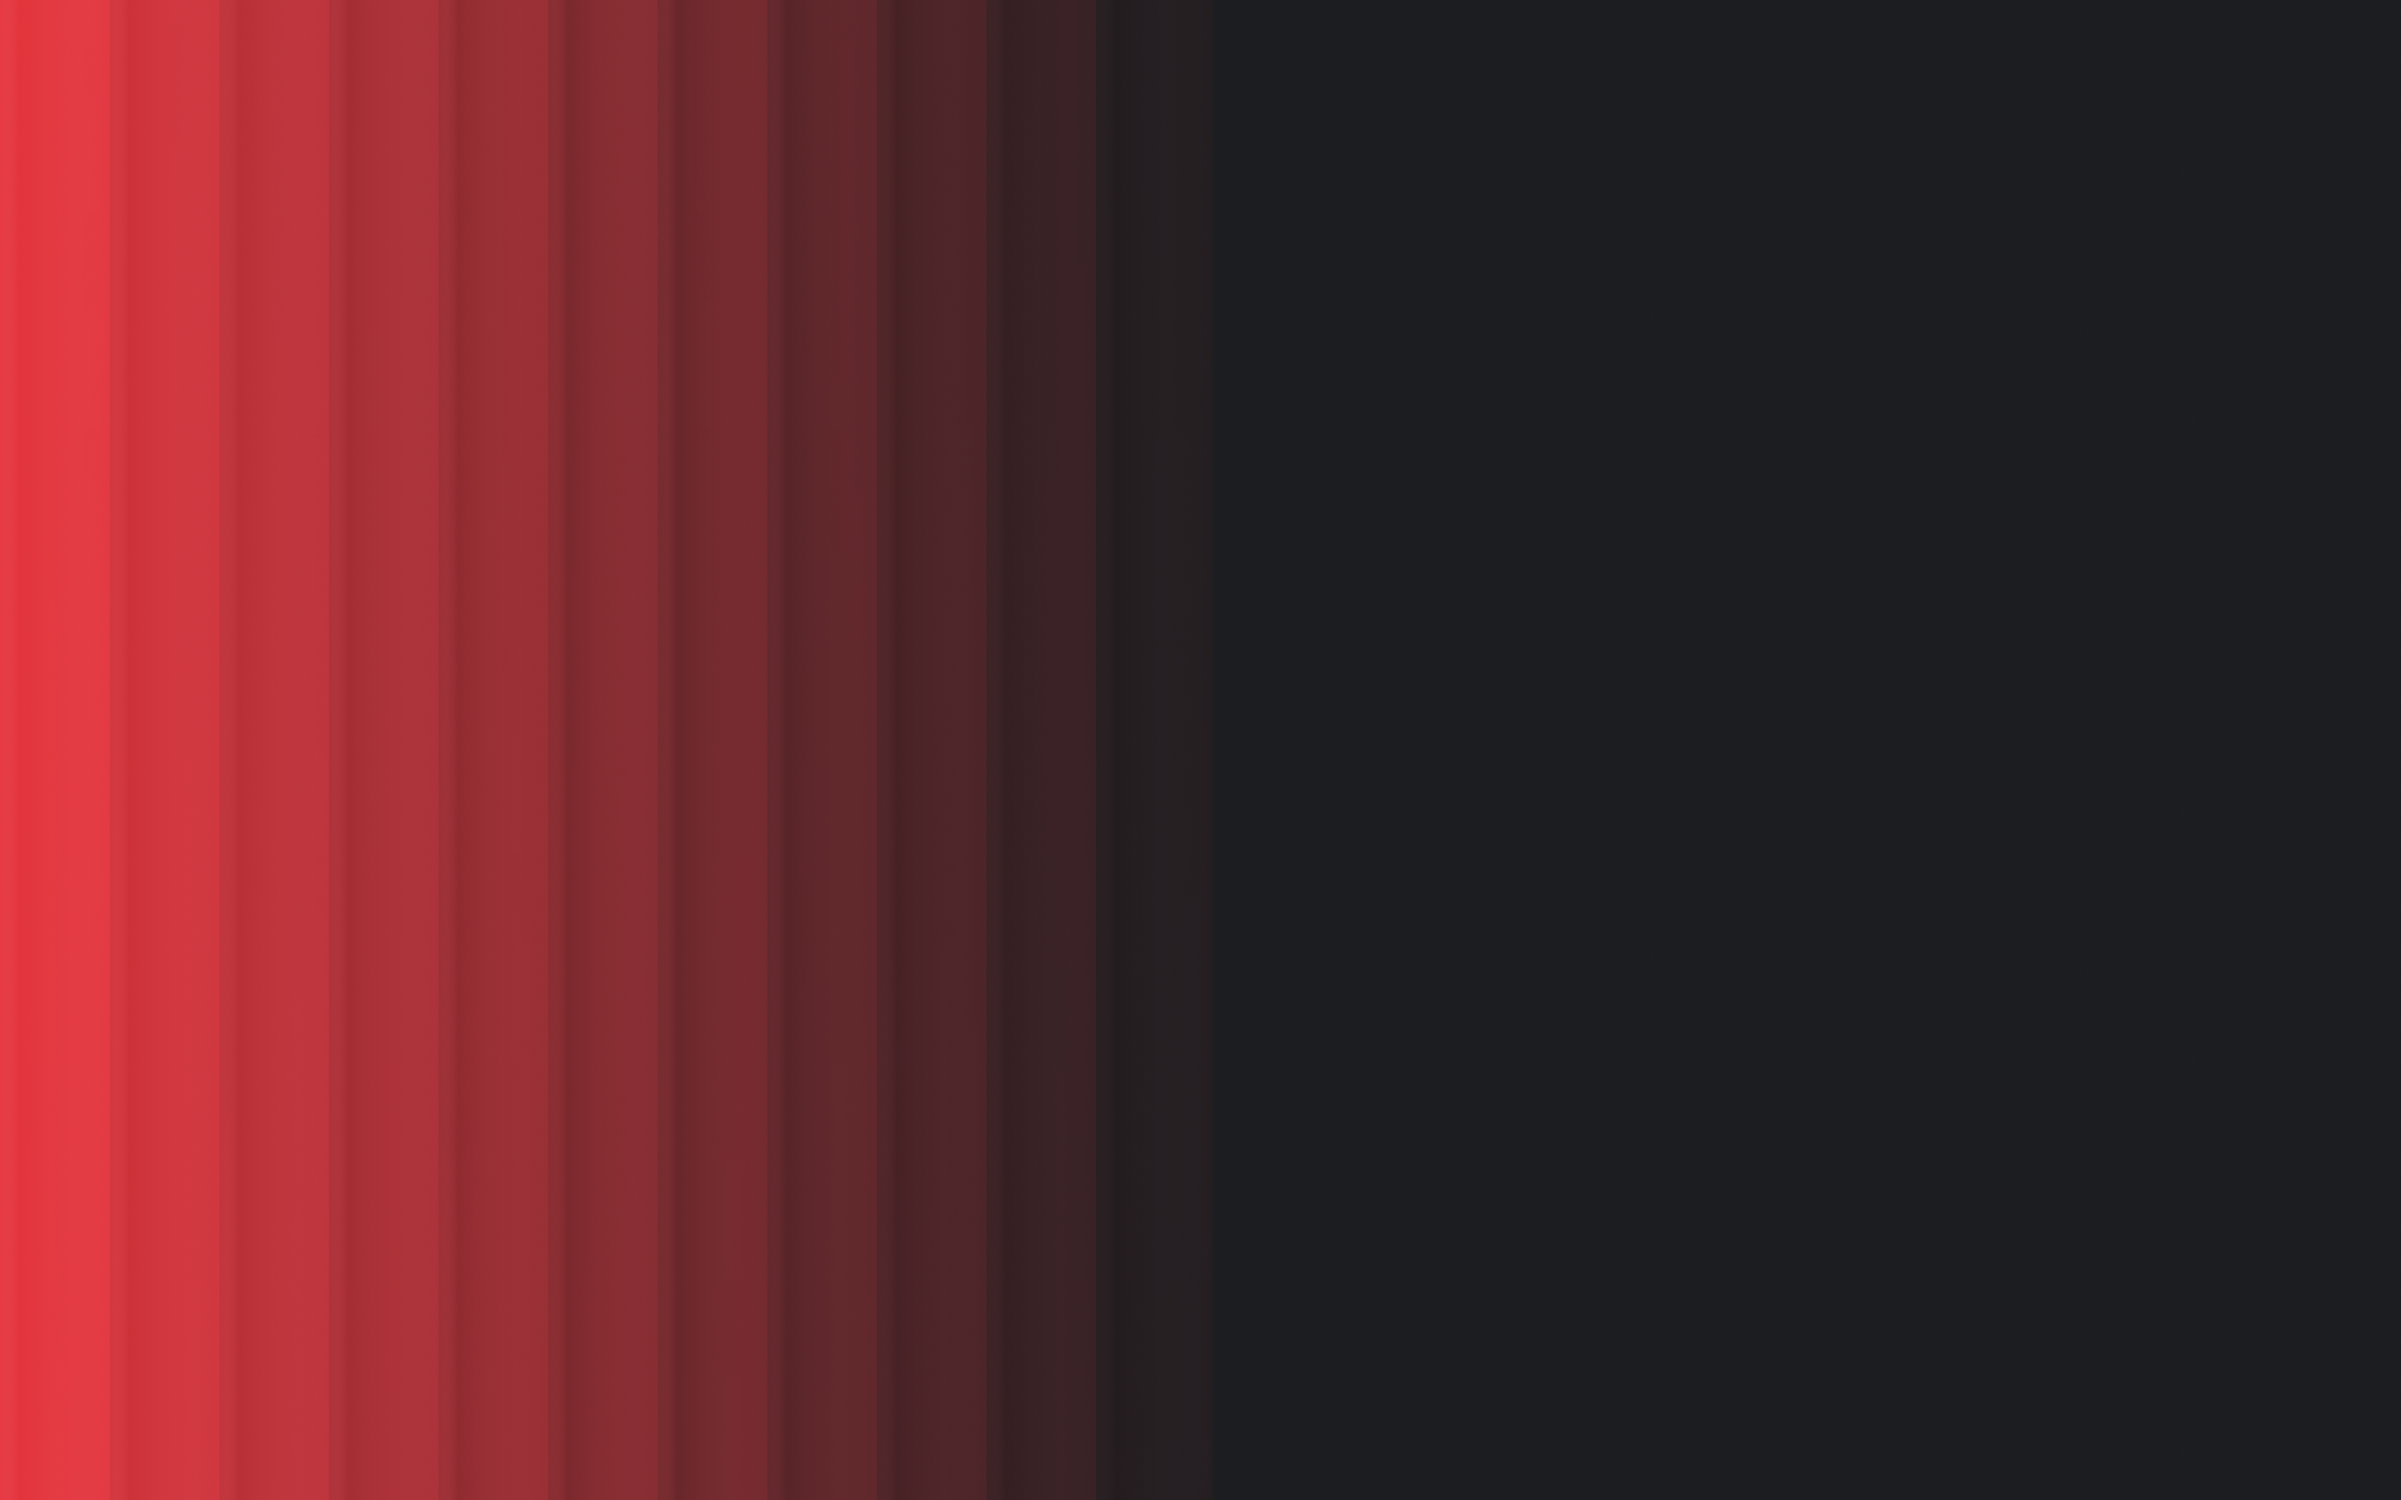
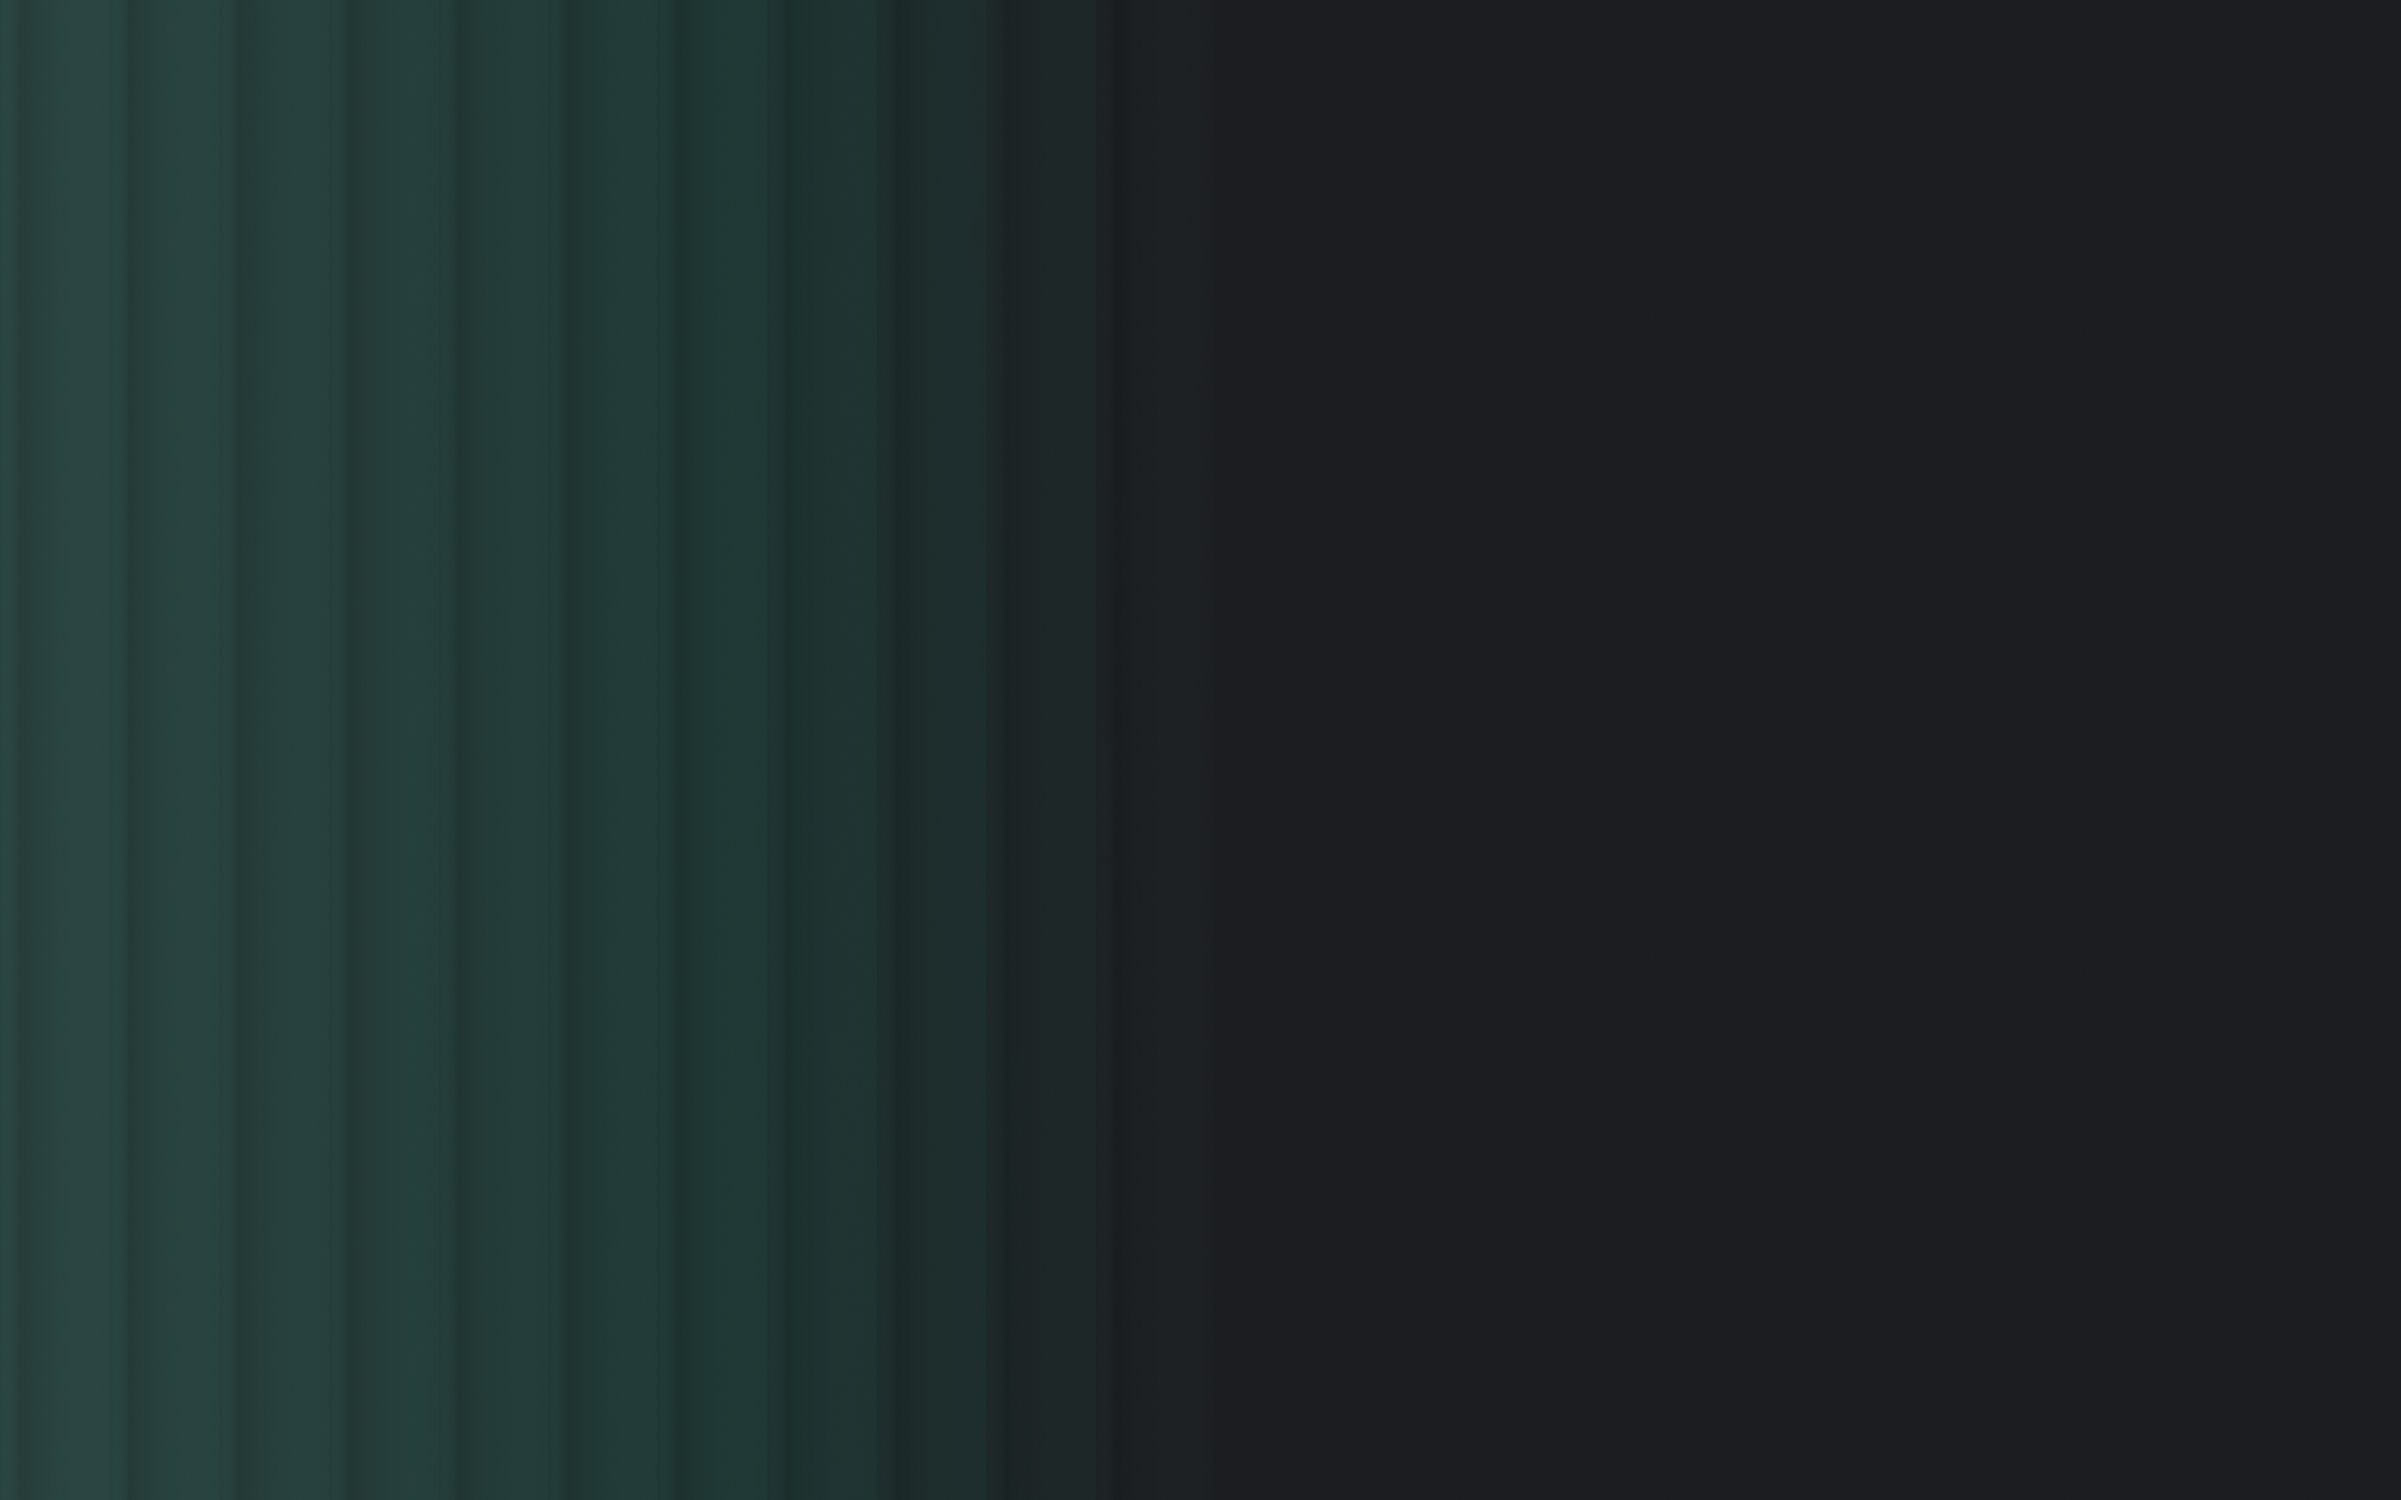
updated colors

diff --git a/src/css/components/header.css b/src/css/components/header.css
@@ -110,102 +110,113 @@ transition: color var(--transition-pattern);
 }
 
 .menu-btn:active .menu-span {
-  color: #E0373F;
-}
-
-.menu-span::after {
-  display: block;
-  content: '';
-  background-color:#FAFAFA;
-  width: 100%;
-  height: 1px;
-}
-
-.order-link-header {
-  display: flex;
-  justify-content: center;
-  align-items: center;
-
-  width: 163px;
-  height: 55px;
-  padding: 18px 24px;
-  border-radius: 60px;
-  background-color: #ED3B44;
-  text-decoration: none;
-
-
-  color: #FAFAFA;
-
-  font-size: 16px;
-  font-style: normal;
-  font-weight: 500;
-  line-height: normal;
-  letter-spacing: -0.32px;
-
-
-  transition: background-color var(--transition-pattern);
-}
-.order-link-header:active {
-background-color: #E0373F;
-}
-
-
-.nav-list {
-    display: flex;
-    flex-direction: column;
-    align-items: center;
-    gap: 5px;
-
-    margin-top: 5px;
-
+  color:#243937;
   }
 
-.nav-is-visible {
-visibility: visible;
-  opacity: 1;
-}
+    .menu-span::after {
+      display: block;
+      content: '';
+      background-color: #FAFAFA;
+      width: 100%;
+      height: 1px;
+    }
   
-.nav-item {
-  text-align: center;
-  min-width: 67px;
-  transition: transform var(--transition-pattern);
+    .order-link-header {
+      display: flex;
+      justify-content: center;
+      align-items: center;
+  
+      width: 163px;
+      height: 55px;
+      padding: 18px 24px;
+      border-radius: 60px;
+      background-color: #2B4441;
+      text-decoration: none;
+  
+  
+      color: #FAFAFA;
+  
+      font-size: 16px;
+      font-style: normal;
+      font-weight: 500;
+      line-height: normal;
+      letter-spacing: -0.32px;
+  
+  
+      transition: background-color var(--transition-pattern);
+    }
+  
+    .order-link-header:active {
+      background-color: #243937;
+    }
+  
+  
+    .nav-list {
+      display: flex;
+      flex-direction: column;
+      align-items: center;
+      gap: 5px;
+  
+      margin-top: 5px;
+  
+    }
+  
+    .nav-is-visible {
+      visibility: visible;
+      opacity: 1;
+    }
+  
+    .nav-item {
+      text-align: center;
+      min-width: 67px;
+      transition: transform var(--transition-pattern);
+    }
+  
+    .nav-link {
+      color: #FAFAFA;
+  
+      font-size: 16px;
+      font-style: normal;
+      font-weight: 500;
+      line-height: normal;
+      letter-spacing: -0.32px;
+  
+      transition: color var(--transition-pattern);
+  
+  
+  
+    }
+  
+    .nav-link:active {
+      color: #243937;
+    }
 }
-.nav-link {
-color: #FAFAFA;
-
-font-size: 16px;
-font-style: normal;
-font-weight: 500;
-line-height: normal;
-letter-spacing: -0.32px;
-
-transition: color var(--transition-pattern);
 
 
-
-  }
-.nav-link:active {
-    color: #E0373F;
-  }
-
-}
 
 @media screen and (min-width: 1440px) {
 .nav-item:hover, .nav-item:focus{
   transform: scale(1.2) ;
 }
 
-.nav-link:hover,
-.nav-link:focus {
-  color:#E0373F;
-}
-
-.menu-btn:hover .menu-span {
-  color: #E0373F;
-}
-
 .order-link-header:hover,
 .order-link-header:focus {
-  background-color: #E0373F;
+  background-color: #627878;
+
 }
+
+.nav-link:hover,
+.nav-link:focus {
+  color:#627878;
+  }
+
+    .menu-btn:hover .menu-span {
+      color: #627878;
+  
+    }
 }
+
+
+
+
+

diff --git a/src/css/components/hero.css b/src/css/components/hero.css
@@ -4,9 +4,9 @@ padding-bottom: 32px;
 
 
 
-background-image: url(../../img/hero/bg-mob@1x.png);
+background-image: url(../../img/hero/bg-mob1@2x.png);
 background-repeat: no-repeat;
-background-position:  -1px;
+background-position:  -450px;
 background-size: cover;
 }
 @media screen and (min-resolution: 192dpi){
@@ -19,7 +19,7 @@ background-size: cover;
 @media screen and (min-width: 768px) {
 .hero-section {
     background-image: url(../../img/hero/bg-tab@1x.png);
-    background-position: -120px;
+    background-position: -350px;
 }
 }
 
@@ -32,7 +32,7 @@ background-size: cover;
 @media screen and (min-width: 1440px) {
 .hero-section {
     background-image: url(../../img/hero/bg-desk@1x.png);
-    background-position: -10px;
+    background-position: center;
 }
 }
 
@@ -75,8 +75,8 @@ justify-content: center;
 
 .social-list-item {
 
-min-width: 37px;
-max-height: 37px;
+width: 37px;
+height: 37px;
 }
 
 .social-link {

diff --git a/src/partials/header.html b/src/partials/header.html
@@ -10,7 +10,7 @@
         <button class="menu-btn" type="button">
           <span class="menu-span">Menu</span>
         </button>
-        <nav class="navigation">
+        <nav class="navigation nav-is-visible">
           <ul class="nav-list">
             <li class="nav-item">
               <a class="nav-link" href="#about-me">About me</a>
